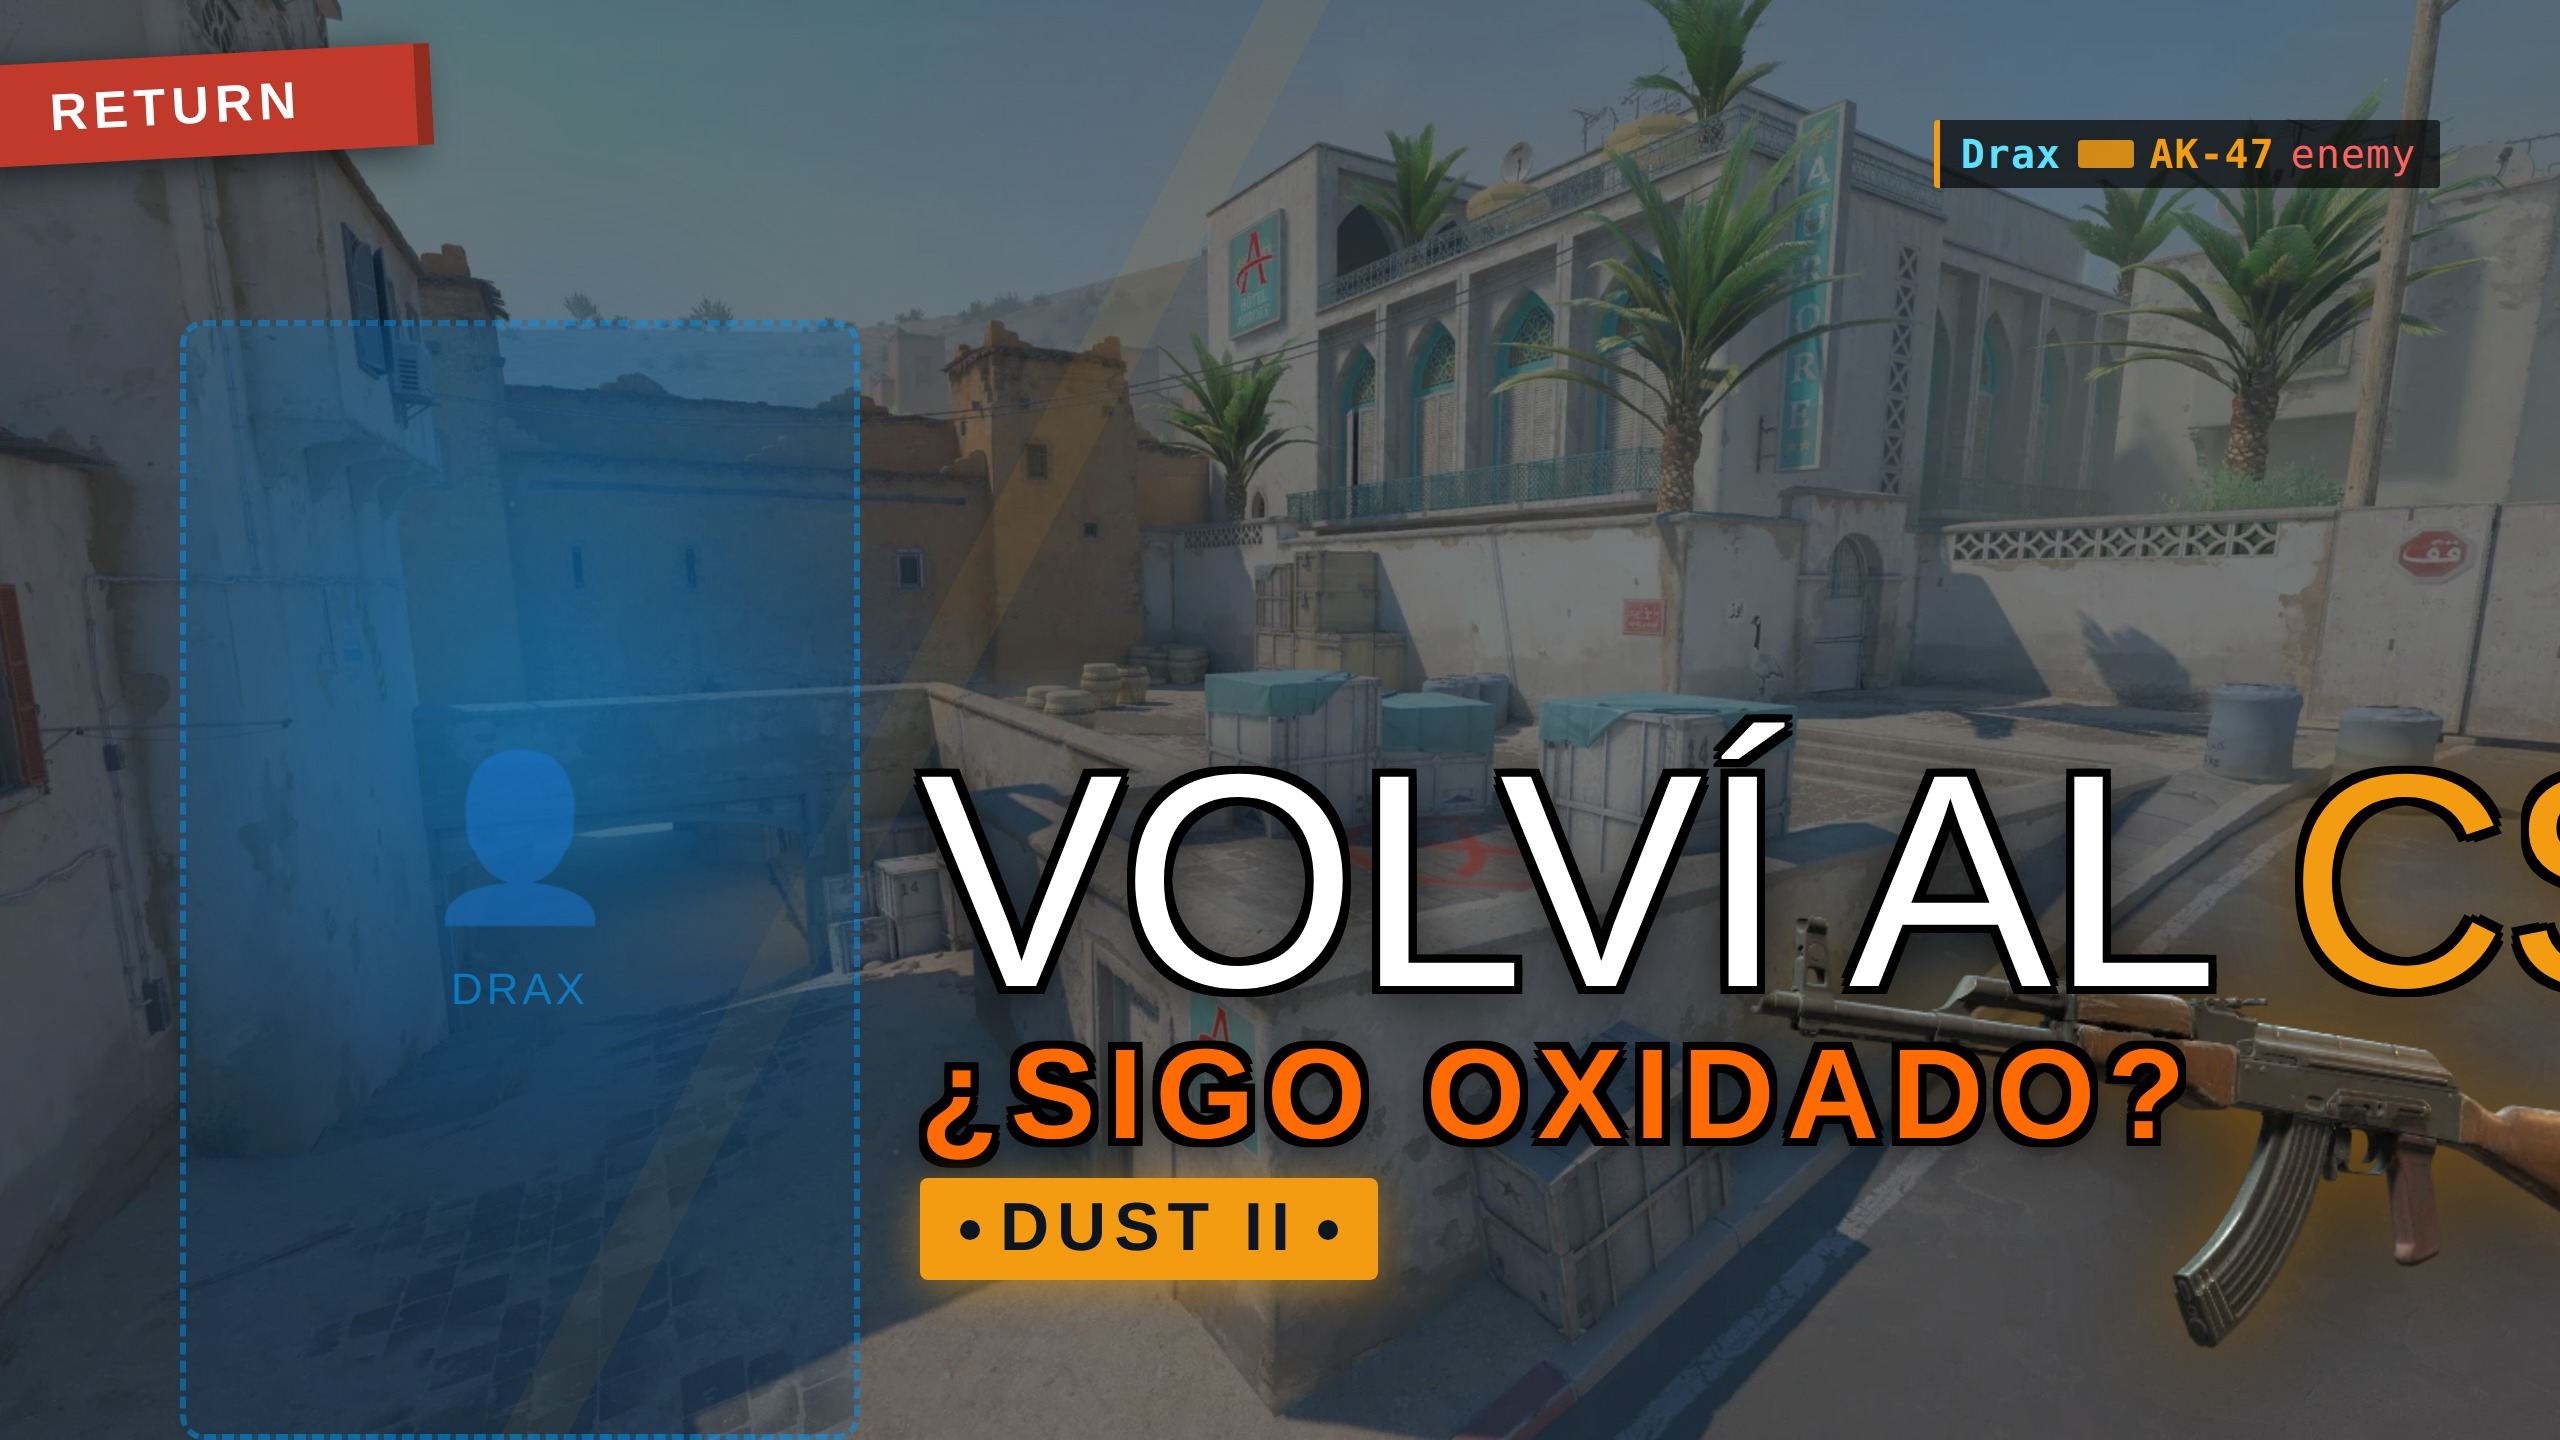
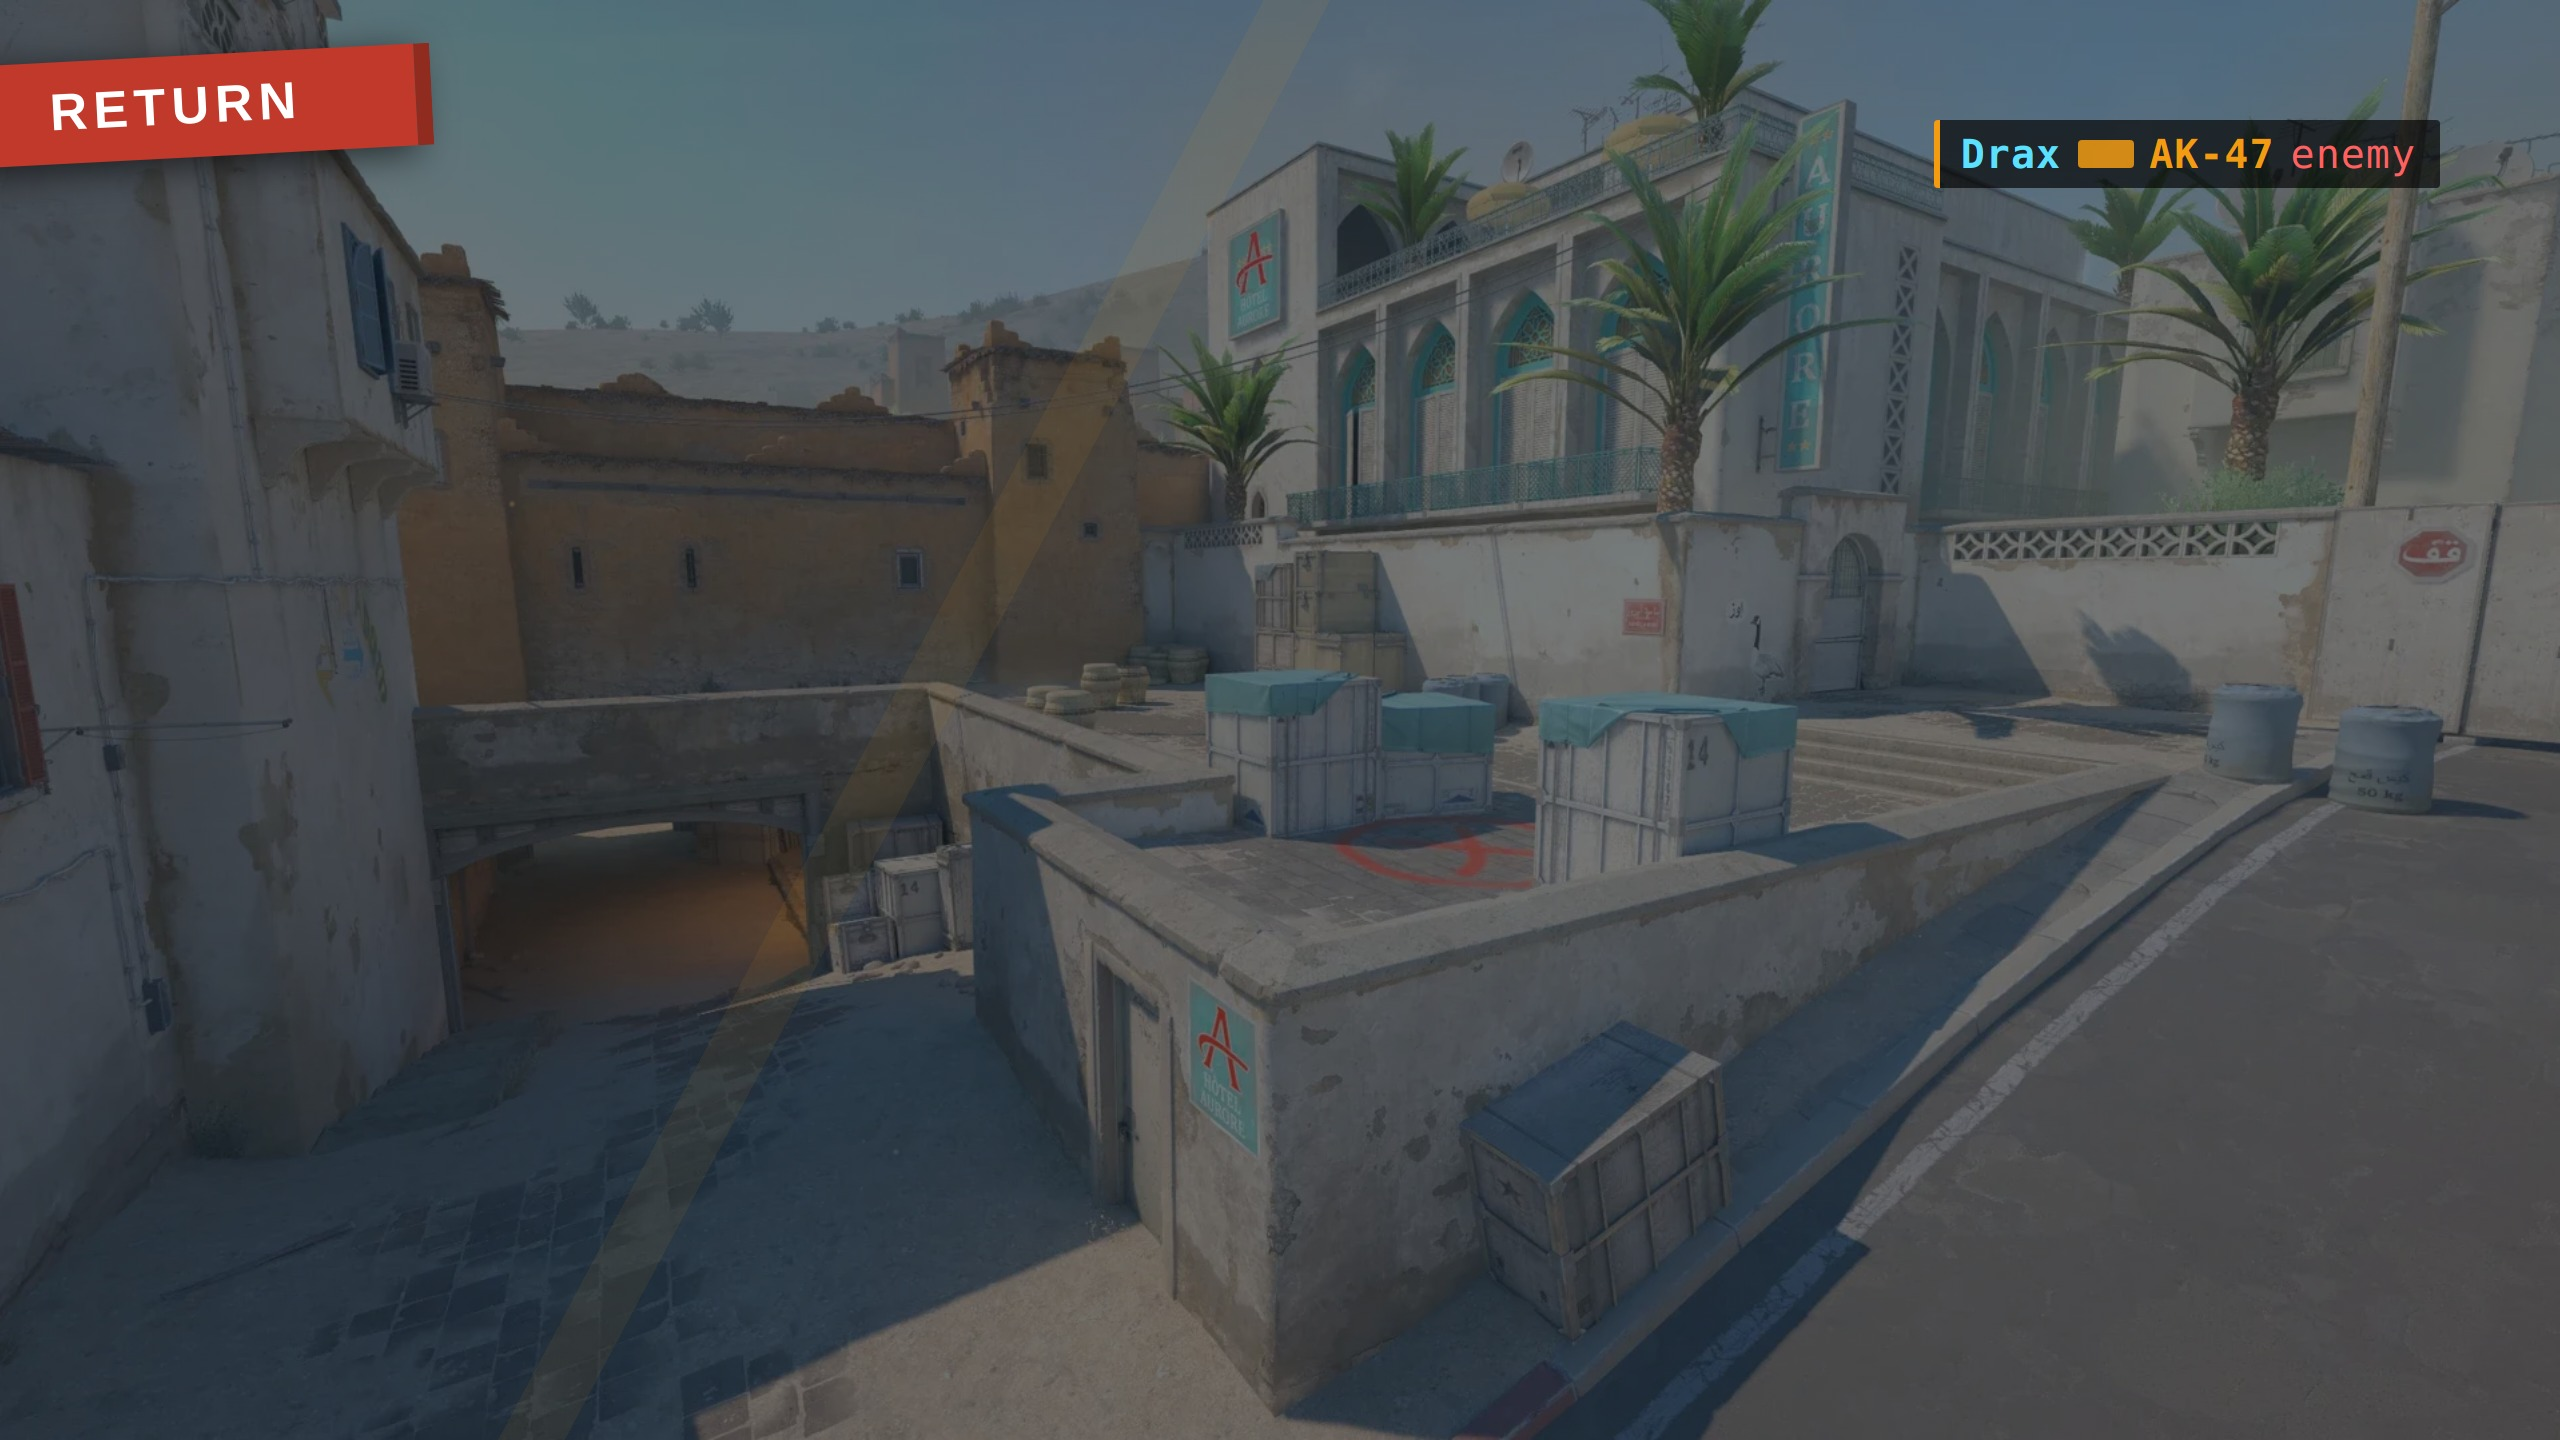
Remove face panel — full-width layout with larger headline
Drop streamer placeholder, expand text block to full canvas width,
increase headline to 160px. Re-render all 4 variants.

https://claude.ai/code/session_018eXLoMJTxus4efDSYoCi2S

Changed region(s): [[0.0625, 0.2188, 1.0, 0.9375], [0.0625, 0.9688, 0.3438, 1.0]]

diff --git a/thumbnail-cs2-dust2/index-v1.html b/thumbnail-cs2-dust2/index-v1.html
@@ -42,52 +42,3 @@
   </div>
 
   <!-- Face -->
-  <div class="face-panel">
-    <div class="face-glow"></div>
-    <img class="face-img" src="assets/drax-face.png" alt="Drax"
-         onerror="this.style.display='none'" />
-    <div class="face-placeholder"><span>Drax</span></div>
-  </div>
-
-  <!-- Weapon -->
-  <div class="weapon-container">
-    <img class="weapon-img" src="assets/ak47.webp" alt="AK-47"
-         onerror="this.style.display='none'" />
-    <div class="weapon-placeholder" id="weapon-svg-placeholder">
-      <svg viewBox="0 0 480 120" width="480" height="120" xmlns="http://www.w3.org/2000/svg"
-           style="filter:drop-shadow(0 0 18px rgba(243,156,18,.5))">
-        <g fill="#8B7355" stroke="#4A3728" stroke-width="1.5">
-          <rect x="0" y="52" width="90" height="22" rx="4"/>
-          <rect x="10" y="44" width="20" height="8" rx="2"/>
-          <rect x="88" y="58" width="22" height="36" rx="4" transform="rotate(8,99,76)"/>
-          <rect x="80" y="46" width="230" height="26" rx="5"/>
-          <rect x="180" y="50" width="90" height="18" rx="3" fill="#5C4A35"/>
-          <rect x="298" y="53" width="160" height="10" rx="3" fill="#6B6B6B" stroke="#444"/>
-          <rect x="140" y="68" width="28" height="44" rx="4" transform="rotate(-5,154,90)"/>
-          <rect x="195" y="42" width="80" height="8" rx="3" fill="#6B6B6B"/>
-          <rect x="200" y="38" width="6" height="12" rx="1" fill="#333"/>
-          <rect x="260" y="36" width="10" height="10" rx="1" fill="#333"/>
-        </g>
-        <ellipse cx="458" cy="58" rx="16" ry="8" fill="rgba(243,156,18,0.4)" filter="url(#glow)"/>
-        <defs><filter id="glow"><feGaussianBlur stdDeviation="3" result="b"/><feMerge><feMergeNode in="b"/><feMergeNode in="SourceGraphic"/></feMerge></filter></defs>
-      </svg>
-    </div>
-  </div>
-
-  <!-- Text block V1 -->
-  <div class="text-block">
-    <div class="headline">VOLVÍ AL <span class="accent">CS2</span></div>
-    <div class="subheadline">¿SIGO OXIDADO?</div>
-    <div class="map-tag"><span class="dot"></span>DUST II<span class="dot"></span></div>
-  </div>
-
-  <div class="timestamp-zone"></div>
-</div>
-
-<script>
-  document.querySelector('.weapon-img')?.addEventListener('load', () => {
-    document.getElementById('weapon-svg-placeholder').style.display = 'none';
-  });
-</script>
-</body>
-</html>

diff --git a/thumbnail-cs2-dust2/index-v3.html b/thumbnail-cs2-dust2/index-v3.html
@@ -79,52 +79,3 @@
   </div>
 
   <!-- Face -->
-  <div class="face-panel">
-    <div class="face-glow"></div>
-    <img class="face-img" src="assets/drax-face.png" alt="Drax"
-         onerror="this.style.display='none'" />
-    <div class="face-placeholder"><span>Drax</span></div>
-  </div>
-
-  <!-- Weapon (M4A4 / generic) -->
-  <div class="weapon-container">
-    <img class="weapon-img" src="assets/m4a4.png" alt="M4A4"
-         onerror="this.nextElementSibling.style.display='flex'; this.style.display='none'" />
-    <div class="weapon-placeholder" id="weapon-svg-placeholder">
-      <!-- M4A4 silhouette simplified -->
-      <svg viewBox="0 0 480 110" width="480" height="110" xmlns="http://www.w3.org/2000/svg"
-           style="filter:drop-shadow(0 0 18px rgba(46,204,113,.45))">
-        <g fill="#7A8090" stroke="#3A3F45" stroke-width="1.5">
-          <rect x="0"   y="48" width="95"  height="22" rx="4"/>
-          <rect x="12"  y="38" width="18"  height="12" rx="3"/>
-          <rect x="90"  y="56" width="24"  height="36" rx="4" transform="rotate(5,102,74)"/>
-          <rect x="85"  y="40" width="215" height="28" rx="5" fill="#6A7080"/>
-          <rect x="178" y="44" width="85"  height="20" rx="3" fill="#5A5E65"/>
-          <rect x="285" y="48" width="175" height="12" rx="4" fill="#4E5260" stroke="#2A2E35"/>
-          <rect x="138" y="64" width="26"  height="40" rx="4" transform="rotate(-4,151,84)"/>
-          <rect x="192" y="36" width="75"  height="8"  rx="3" fill="#5A5E65"/>
-          <rect x="205" y="30" width="6"   height="12" rx="1" fill="#252A32"/>
-          <rect x="258" y="28" width="10"  height="10" rx="1" fill="#252A32"/>
-        </g>
-        <ellipse cx="460" cy="54" rx="14" ry="7" fill="rgba(46,204,113,0.4)"/>
-      </svg>
-    </div>
-  </div>
-
-  <!-- Text block V3 -->
-  <div class="text-block">
-    <div class="headline">PRIMERA <span class="accent">PARTIDA</span></div>
-    <div class="subheadline">EN CS2 <span class="accent">OTRA VEZ</span></div>
-    <div class="map-tag"><span class="dot"></span>DUST II<span class="dot"></span></div>
-  </div>
-
-  <div class="timestamp-zone"></div>
-</div>
-
-<script>
-  document.querySelector('.weapon-img')?.addEventListener('load', () => {
-    document.getElementById('weapon-svg-placeholder').style.display = 'none';
-  });
-</script>
-</body>
-</html>

diff --git a/thumbnail-cs2-dust2/index-v2.html b/thumbnail-cs2-dust2/index-v2.html
@@ -61,55 +61,3 @@
   </div>
 
   <!-- Face -->
-  <div class="face-panel">
-    <div class="face-glow"></div>
-    <img class="face-img" src="assets/drax-face.png" alt="Drax"
-         onerror="this.style.display='none'" />
-    <div class="face-placeholder"><span>Drax</span></div>
-  </div>
-
-  <!-- Weapon (AWP variant) -->
-  <div class="weapon-container">
-    <img class="weapon-img" src="assets/awp.png" alt="AWP"
-         onerror="this.nextElementSibling.style.display='flex'; this.style.display='none'" />
-    <div class="weapon-placeholder" id="weapon-svg-placeholder">
-      <svg viewBox="0 0 520 100" width="520" height="100" xmlns="http://www.w3.org/2000/svg"
-           style="filter:drop-shadow(0 0 18px rgba(0,200,255,.5))">
-        <!-- AWP silhouette simplified -->
-        <g fill="#9BA0A8" stroke="#3A3F45" stroke-width="1.5">
-          <!-- Stock -->
-          <rect x="0" y="40" width="110" height="28" rx="5"/>
-          <rect x="8" y="30" width="18" height="14" rx="3"/>
-          <!-- Grip -->
-          <rect x="105" y="52" width="26" height="38" rx="5" transform="rotate(6,118,71)"/>
-          <!-- Body -->
-          <rect x="100" y="36" width="200" height="28" rx="5" fill="#7A8090"/>
-          <!-- Scope -->
-          <rect x="155" y="20" width="60" height="20" rx="4" fill="#2A2E35"/>
-          <circle cx="165" cy="30" r="7" fill="#1A1E25" stroke="#555" stroke-width="1"/>
-          <circle cx="165" cy="30" r="4" fill="#00C8FF" opacity="0.6"/>
-          <!-- Barrel -->
-          <rect x="285" y="44" width="220" height="12" rx="4" fill="#5A5E65" stroke="#333"/>
-        </g>
-        <ellipse cx="505" cy="50" rx="12" ry="6" fill="rgba(0,200,255,0.45)"/>
-      </svg>
-    </div>
-  </div>
-
-  <!-- Text block V2 -->
-  <div class="text-block">
-    <div class="headline">DESPUÉS<br/>DE <span class="accent">AÑOS</span></div>
-    <div class="subheadline">VOLVÍ A DUST II</div>
-    <div class="map-tag"><span class="dot"></span>DUST II<span class="dot"></span></div>
-  </div>
-
-  <div class="timestamp-zone"></div>
-</div>
-
-<script>
-  document.querySelector('.weapon-img')?.addEventListener('load', () => {
-    document.getElementById('weapon-svg-placeholder').style.display = 'none';
-  });
-</script>
-</body>
-</html>

diff --git a/thumbnail-cs2-dust2/index.html b/thumbnail-cs2-dust2/index.html
@@ -44,20 +44,6 @@
     </div>
   </div>
 
-  <!-- ── Streamer face (left 40 %) ──────────────────────────── -->
-  <div class="face-panel">
-    <div class="face-glow"></div>
-    <!--
-      Opción A: foto del streamer (PNG con fondo transparente ideal)
-        <img class="face-img" src="assets/drax-face.png" alt="Drax" />
-
-      Opción B: placeholder activado (eliminar cuando tengas foto)
-    -->
-    <div class="face-placeholder">
-      <span>Drax</span>
-    </div>
-  </div>
-
   <!-- ── Weapon foreground ──────────────────────────────────── -->
   <div class="weapon-container">
     <!--

diff --git a/thumbnail-cs2-dust2/styles.css b/thumbnail-cs2-dust2/styles.css
@@ -228,7 +228,7 @@ body {
    ============================================================ */
 .text-block {
   position: absolute;
-  left: 460px;
+  left: var(--safe-margin);
   right: var(--safe-margin);
   bottom: 80px;
   z-index: 8;
@@ -241,7 +241,7 @@ body {
 /* Main headline */
 .headline {
   font-family: var(--font-primary);
-  font-size: 118px;
+  font-size: 160px;
   line-height: 0.88;
   letter-spacing: -1px;
   color: var(--color-text-main);
